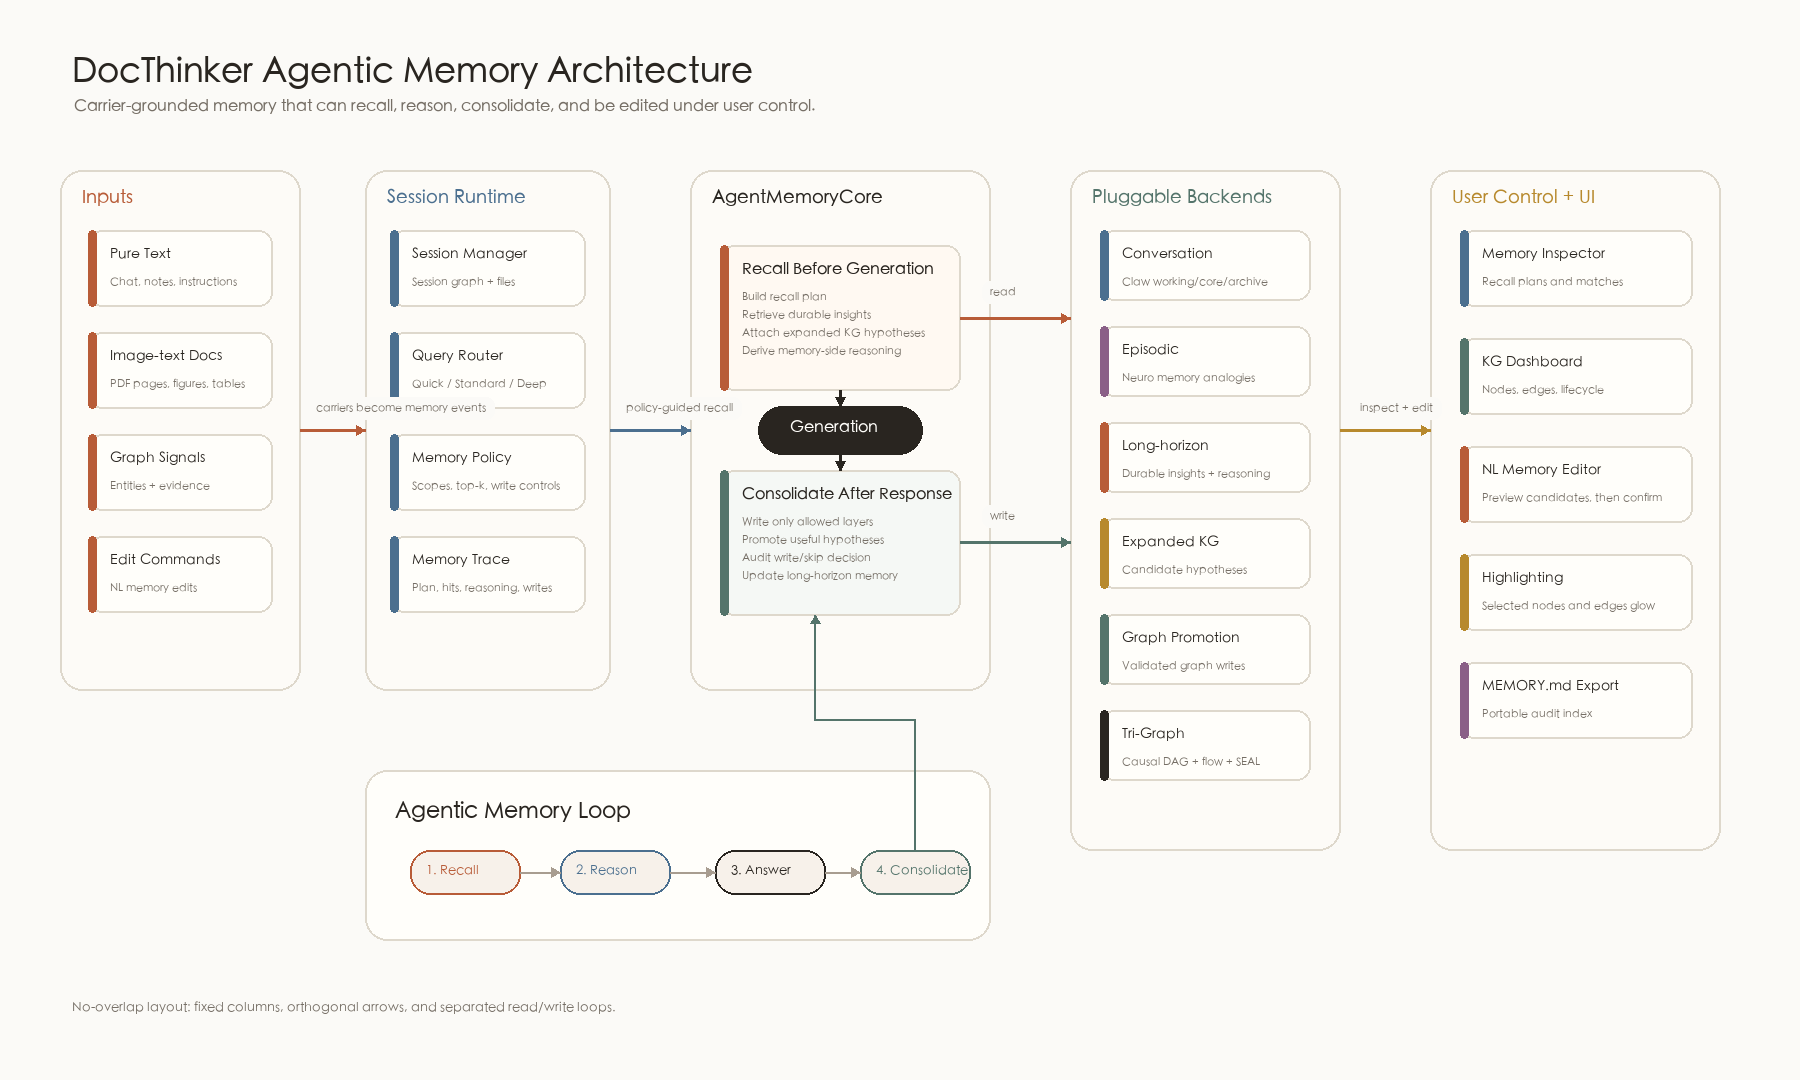
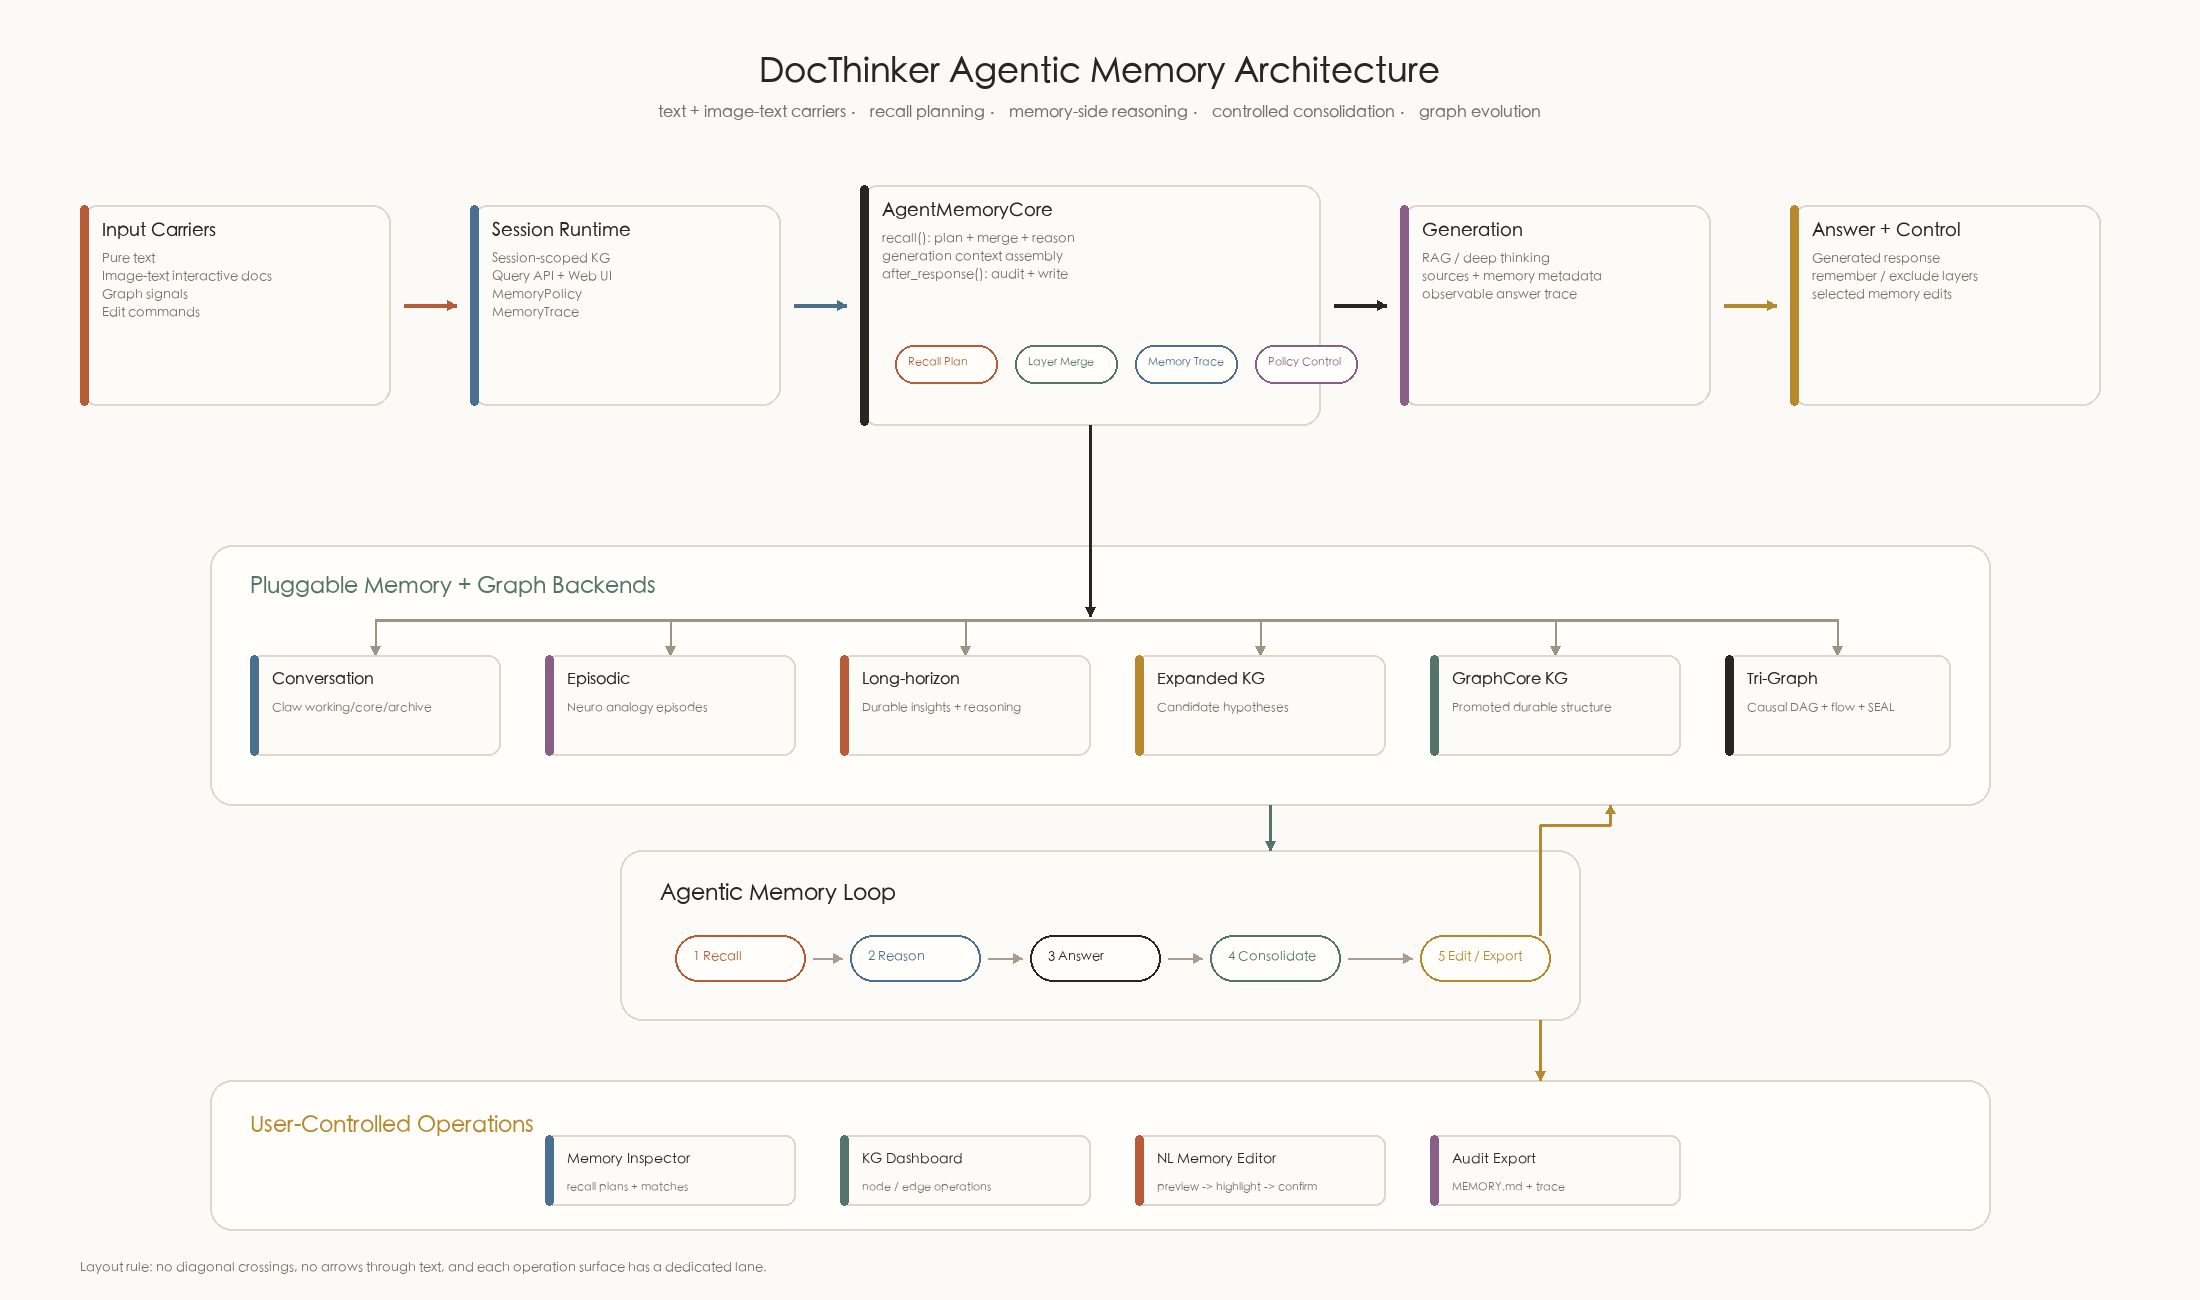
Redraw architecture diagram without overlaps

diff --git a/scripts/render_memory_assets.py b/scripts/render_memory_assets.py
@@ -128,126 +128,109 @@ def label(draw: ImageDraw.ImageDraw, xy: tuple[int, int], text: str, ft: ImageFo
 
 
 def render_architecture() -> None:
-    img = Image.new("RGB", (1800, 1080), PAPER)
+    img = Image.new("RGB", (2200, 1300), PAPER)
     draw = ImageDraw.Draw(img)
-    draw.rectangle((0, 0, 1800, 1080), fill=PAPER)
-    draw.text((72, 54), "DocThinker Agentic Memory Architecture", font=F34, fill=INK)
-    draw.text((74, 98), "Carrier-grounded memory that can recall, reason, consolidate, and be edited under user control.", font=F16, fill=MUTED)
+    draw.rectangle((0, 0, 2200, 1300), fill=PAPER)
 
-    columns = [
-        (60, 170, 300, 690, "Inputs", COPPER),
-        (365, 170, 610, 690, "Session Runtime", LAKE),
-        (690, 170, 990, 690, "AgentMemoryCore", INK),
-        (1070, 170, 1340, 850, "Pluggable Backends", SAGE),
-        (1430, 170, 1720, 850, "User Control + UI", OCHRE),
+    title = "DocThinker Agentic Memory Architecture"
+    subtitle = "text + image-text carriers · recall planning · memory-side reasoning · controlled consolidation · graph evolution"
+    draw.text(((2200 - text_width(draw, title, F34)) // 2, 54), title, font=F34, fill=INK)
+    draw.text(((2200 - text_width(draw, subtitle, F16)) // 2, 104), subtitle, font=F16, fill=MUTED)
+
+    # Main pipeline row. Cards are separated by generous gutters; arrows stay in
+    # those gutters only, so no connector crosses text or card bodies.
+    pipeline = [
+        ((80, 205, 390, 405), "Input Carriers", ["Pure text", "Image-text interactive docs", "Graph signals", "Edit commands"], COPPER),
+        ((470, 205, 780, 405), "Session Runtime", ["Session-scoped KG", "Query API + Web UI", "MemoryPolicy", "MemoryTrace"], LAKE),
+        ((860, 185, 1320, 425), "AgentMemoryCore", ["recall(): plan + merge + reason", "generation context assembly", "after_response(): audit + write"], INK),
+        ((1400, 205, 1710, 405), "Generation", ["RAG / deep thinking", "sources + memory metadata", "observable answer trace"], PLUM),
+        ((1790, 205, 2100, 405), "Answer + Control", ["Generated response", "remember / exclude layers", "selected memory edits"], OCHRE),
     ]
-    for x0, y0, x1, y1, title, accent in columns:
-        draw.rounded_rectangle((x0, y0, x1, y1), radius=22, fill="#fdfbf7", outline=HAIRLINE, width=2)
-        draw.text((x0 + 22, y0 + 18), title, font=F18, fill=accent)
+    for xy, title_text, body, accent in pipeline:
+        card(draw, xy, title_text, body, fill="#fdfbf7", accent=accent, title_font=F18, body_font=F13, radius=18)
 
-    input_cards = [
-        ("Pure Text", ["Chat, notes, instructions"]),
-        ("Image-text Docs", ["PDF pages, figures, tables"]),
-        ("Graph Signals", ["Entities + evidence"]),
-        ("Edit Commands", ["NL memory edits"]),
+    for left, right, color in [
+        (pipeline[0][0], pipeline[1][0], COPPER),
+        (pipeline[1][0], pipeline[2][0], LAKE),
+        (pipeline[2][0], pipeline[3][0], INK),
+        (pipeline[3][0], pipeline[4][0], OCHRE),
+    ]:
+        arrow(draw, [(left[2] + 14, 305), (right[0] - 14, 305)], fill=color, width=4)
+
+    # Core phases inside the central card; no lines pass through them.
+    phase_y = 345
+    phases = [
+        ("Recall Plan", 895, COPPER),
+        ("Layer Merge", 1015, SAGE),
+        ("Memory Trace", 1135, LAKE),
+        ("Policy Control", 1255, PLUM),
     ]
-    for i, (title, body) in enumerate(input_cards):
-        card(draw, (88, 230 + i * 102, 272, 306 + i * 102), title, body, accent=COPPER, title_font=F14)
+    for text, x, color in phases:
+        draw.rounded_rectangle((x, phase_y, x + 102, phase_y + 38), radius=19, fill=PANEL, outline=color, width=2)
+        draw.text((x + 13, phase_y + 11), text, font=F11, fill=color)
 
-    runtime_cards = [
-        ("Session Manager", ["Session graph + files"]),
-        ("Query Router", ["Quick / Standard / Deep"]),
-        ("Memory Policy", ["Scopes, top-k, write controls"]),
-        ("Memory Trace", ["Plan, hits, reasoning, writes"]),
-    ]
-    for i, (title, body) in enumerate(runtime_cards):
-        card(draw, (390, 230 + i * 102, 585, 306 + i * 102), title, body, accent=LAKE, title_font=F14)
-
-    card(
-        draw,
-        (720, 245, 960, 390),
-        "Recall Before Generation",
-        [
-            "Build recall plan",
-            "Retrieve durable insights",
-            "Attach expanded KG hypotheses",
-            "Derive memory-side reasoning",
-        ],
-        fill="#fff9f2",
-        accent=COPPER,
-        title_font=F16,
-    )
-    card(
-        draw,
-        (720, 470, 960, 615),
-        "Consolidate After Response",
-        [
-            "Write only allowed layers",
-            "Promote useful hypotheses",
-            "Audit write/skip decision",
-            "Update long-horizon memory",
-        ],
-        fill="#f5f8f5",
-        accent=SAGE,
-        title_font=F16,
-    )
-    draw.rounded_rectangle((758, 406, 922, 454), radius=24, fill=INK)
-    draw.text((790, 419), "Generation", font=F16, fill="#fffefa")
-
+    # Backend lane. A single bus below the core fans out vertically; this avoids
+    # diagonal connector clutter and keeps every backend card readable.
+    draw.rounded_rectangle((210, 545, 1990, 805), radius=22, fill="#fffefa", outline=HAIRLINE, width=2)
+    draw.text((250, 575), "Pluggable Memory + Graph Backends", font=F22, fill=SAGE)
     backend_cards = [
-        ("Conversation", ["Claw working/core/archive"]),
-        ("Episodic", ["Neuro memory analogies"]),
-        ("Long-horizon", ["Durable insights + reasoning"]),
-        ("Expanded KG", ["Candidate hypotheses"]),
-        ("Graph Promotion", ["Validated graph writes"]),
-        ("Tri-Graph", ["Causal DAG + flow + SEAL"]),
+        ((250, 655, 500, 755), "Conversation", ["Claw working/core/archive"], LAKE),
+        ((545, 655, 795, 755), "Episodic", ["Neuro analogy episodes"], PLUM),
+        ((840, 655, 1090, 755), "Long-horizon", ["Durable insights + reasoning"], COPPER),
+        ((1135, 655, 1385, 755), "Expanded KG", ["Candidate hypotheses"], OCHRE),
+        ((1430, 655, 1680, 755), "GraphCore KG", ["Promoted durable structure"], SAGE),
+        ((1725, 655, 1950, 755), "Tri-Graph", ["Causal DAG + flow + SEAL"], INK),
     ]
-    for i, (title, body) in enumerate(backend_cards):
-        card(draw, (1100, 230 + i * 96, 1310, 300 + i * 96), title, body, accent=[LAKE, PLUM, COPPER, OCHRE, SAGE, INK][i], title_font=F14)
+    bus_y = 620
+    draw.line((375, bus_y, 1838, bus_y), fill="#9d9488", width=3)
+    arrow(draw, [(1090, 425), (1090, bus_y - 4)], fill=INK, width=3)
+    for xy, title_text, body, accent in backend_cards:
+        x_mid = (xy[0] + xy[2]) // 2
+        draw.line((x_mid, bus_y, x_mid, xy[1]), fill="#9d9488", width=2)
+        arrow(draw, [(x_mid, xy[1] - 22), (x_mid, xy[1])], fill="#9d9488", width=2)
+        card(draw, xy, title_text, body, fill="#fdfbf7", accent=accent, title_font=F16, body_font=F12, radius=12)
 
+    # Controlled consolidation uses a separate lower channel, never crossing
+    # the backend labels.
+    draw.rounded_rectangle((620, 850, 1580, 1020), radius=22, fill="#fdfbf7", outline=HAIRLINE, width=2)
+    draw.text((660, 882), "Agentic Memory Loop", font=F22, fill=INK)
+    loop_steps = [
+        ("1 Recall", 675, 935, COPPER),
+        ("2 Reason", 850, 935, LAKE),
+        ("3 Answer", 1030, 935, INK),
+        ("4 Consolidate", 1210, 935, SAGE),
+        ("5 Edit / Export", 1420, 935, OCHRE),
+    ]
+    for step, x, y, color in loop_steps:
+        draw.rounded_rectangle((x, y, x + 130, y + 46), radius=23, fill=PANEL, outline=color, width=2)
+        draw.text((x + 18, y + 14), step, font=F13, fill=color)
+    for i in range(len(loop_steps) - 1):
+        x0 = loop_steps[i][1] + 130
+        x1 = loop_steps[i + 1][1]
+        arrow(draw, [(x0 + 8, 958), (x1 - 8, 958)], fill="#a89d90", width=2)
+    arrow(draw, [(1270, 805), (1270, 850)], fill=SAGE, width=3)
+    arrow(draw, [(1540, 935), (1540, 825), (1610, 825), (1610, 805)], fill=OCHRE, width=3)
+
+    # UI/control lane. These are outputs of the loop, so connectors use only
+    # vertical drops into the lane.
+    draw.rounded_rectangle((210, 1080, 1990, 1230), radius=22, fill="#fffefa", outline=HAIRLINE, width=2)
+    draw.text((250, 1114), "User-Controlled Operations", font=F22, fill=OCHRE)
     ui_cards = [
-        ("Memory Inspector", ["Recall plans and matches"]),
-        ("KG Dashboard", ["Nodes, edges, lifecycle"]),
-        ("NL Memory Editor", ["Preview candidates, then confirm"]),
-        ("Highlighting", ["Selected nodes and edges glow"]),
-        ("MEMORY.md Export", ["Portable audit index"]),
+        ((545, 1135, 795, 1205), "Memory Inspector", ["recall plans + matches"], LAKE),
+        ((840, 1135, 1090, 1205), "KG Dashboard", ["node / edge operations"], SAGE),
+        ((1135, 1135, 1385, 1205), "NL Memory Editor", ["preview -> highlight -> confirm"], COPPER),
+        ((1430, 1135, 1680, 1205), "Audit Export", ["MEMORY.md + trace"], PLUM),
     ]
-    for i, (title, body) in enumerate(ui_cards):
-        card(draw, (1460, 230 + i * 108, 1692, 306 + i * 108), title, body, accent=[LAKE, SAGE, COPPER, OCHRE, PLUM][i], title_font=F14)
+    for xy, title_text, body, accent in ui_cards:
+        card(draw, xy, title_text, body, fill="#fdfbf7", accent=accent, title_font=F14, body_font=F11, radius=10)
+    arrow(draw, [(1540, 1020), (1540, 1080)], fill=OCHRE, width=3)
 
-    # Main forward flow.
-    arrow(draw, [(300, 430), (365, 430)], fill=COPPER)
-    arrow(draw, [(610, 430), (690, 430)], fill=LAKE)
-    arrow(draw, [(960, 318), (1070, 318)], fill=COPPER)
-    arrow(draw, [(960, 542), (1070, 542)], fill=SAGE)
-    arrow(draw, [(1340, 430), (1430, 430)], fill=OCHRE)
-    arrow(draw, [(840, 390), (840, 406)], fill=INK)
-    arrow(draw, [(840, 454), (840, 470)], fill=INK)
-
-    # Feedback/control loop around the bottom.
-    draw.rounded_rectangle((365, 770, 990, 940), radius=22, fill="#fffefa", outline=HAIRLINE, width=2)
-    draw.text((395, 800), "Agentic Memory Loop", font=F22, fill=INK)
-    loop_items = [
-        ("1. Recall", 410, 850, COPPER),
-        ("2. Reason", 560, 850, LAKE),
-        ("3. Answer", 715, 850, INK),
-        ("4. Consolidate", 860, 850, SAGE),
-    ]
-    for title, x, y, color in loop_items:
-        draw.rounded_rectangle((x, y, x + 110, y + 44), radius=20, fill="#f7f1ea", outline=color, width=2)
-        draw.text((x + 16, y + 13), title, font=F13, fill=color)
-    arrow(draw, [(520, 872), (560, 872)], fill="#a89d90", width=2)
-    arrow(draw, [(670, 872), (715, 872)], fill="#a89d90", width=2)
-    arrow(draw, [(825, 872), (860, 872)], fill="#a89d90", width=2)
-    arrow(draw, [(915, 850), (915, 720), (815, 720), (815, 615)], fill=SAGE, width=2)
-
-    label(draw, (316, 402), "carriers become memory events")
-    label(draw, (626, 402), "policy-guided recall")
-    label(draw, (990, 286), "read")
-    label(draw, (990, 510), "write")
-    label(draw, (1360, 402), "inspect + edit")
-
-    draw.text((72, 1000), "No-overlap layout: fixed columns, orthogonal arrows, and separated read/write loops.", font=F13, fill=MUTED)
+    draw.text(
+        (80, 1260),
+        "Layout rule: no diagonal crossings, no arrows through text, and each operation surface has a dedicated lane.",
+        font=F13,
+        fill=MUTED,
+    )
     img.save(ASSET_DIR / "agentic_memory_architecture.png", quality=95)
 
 